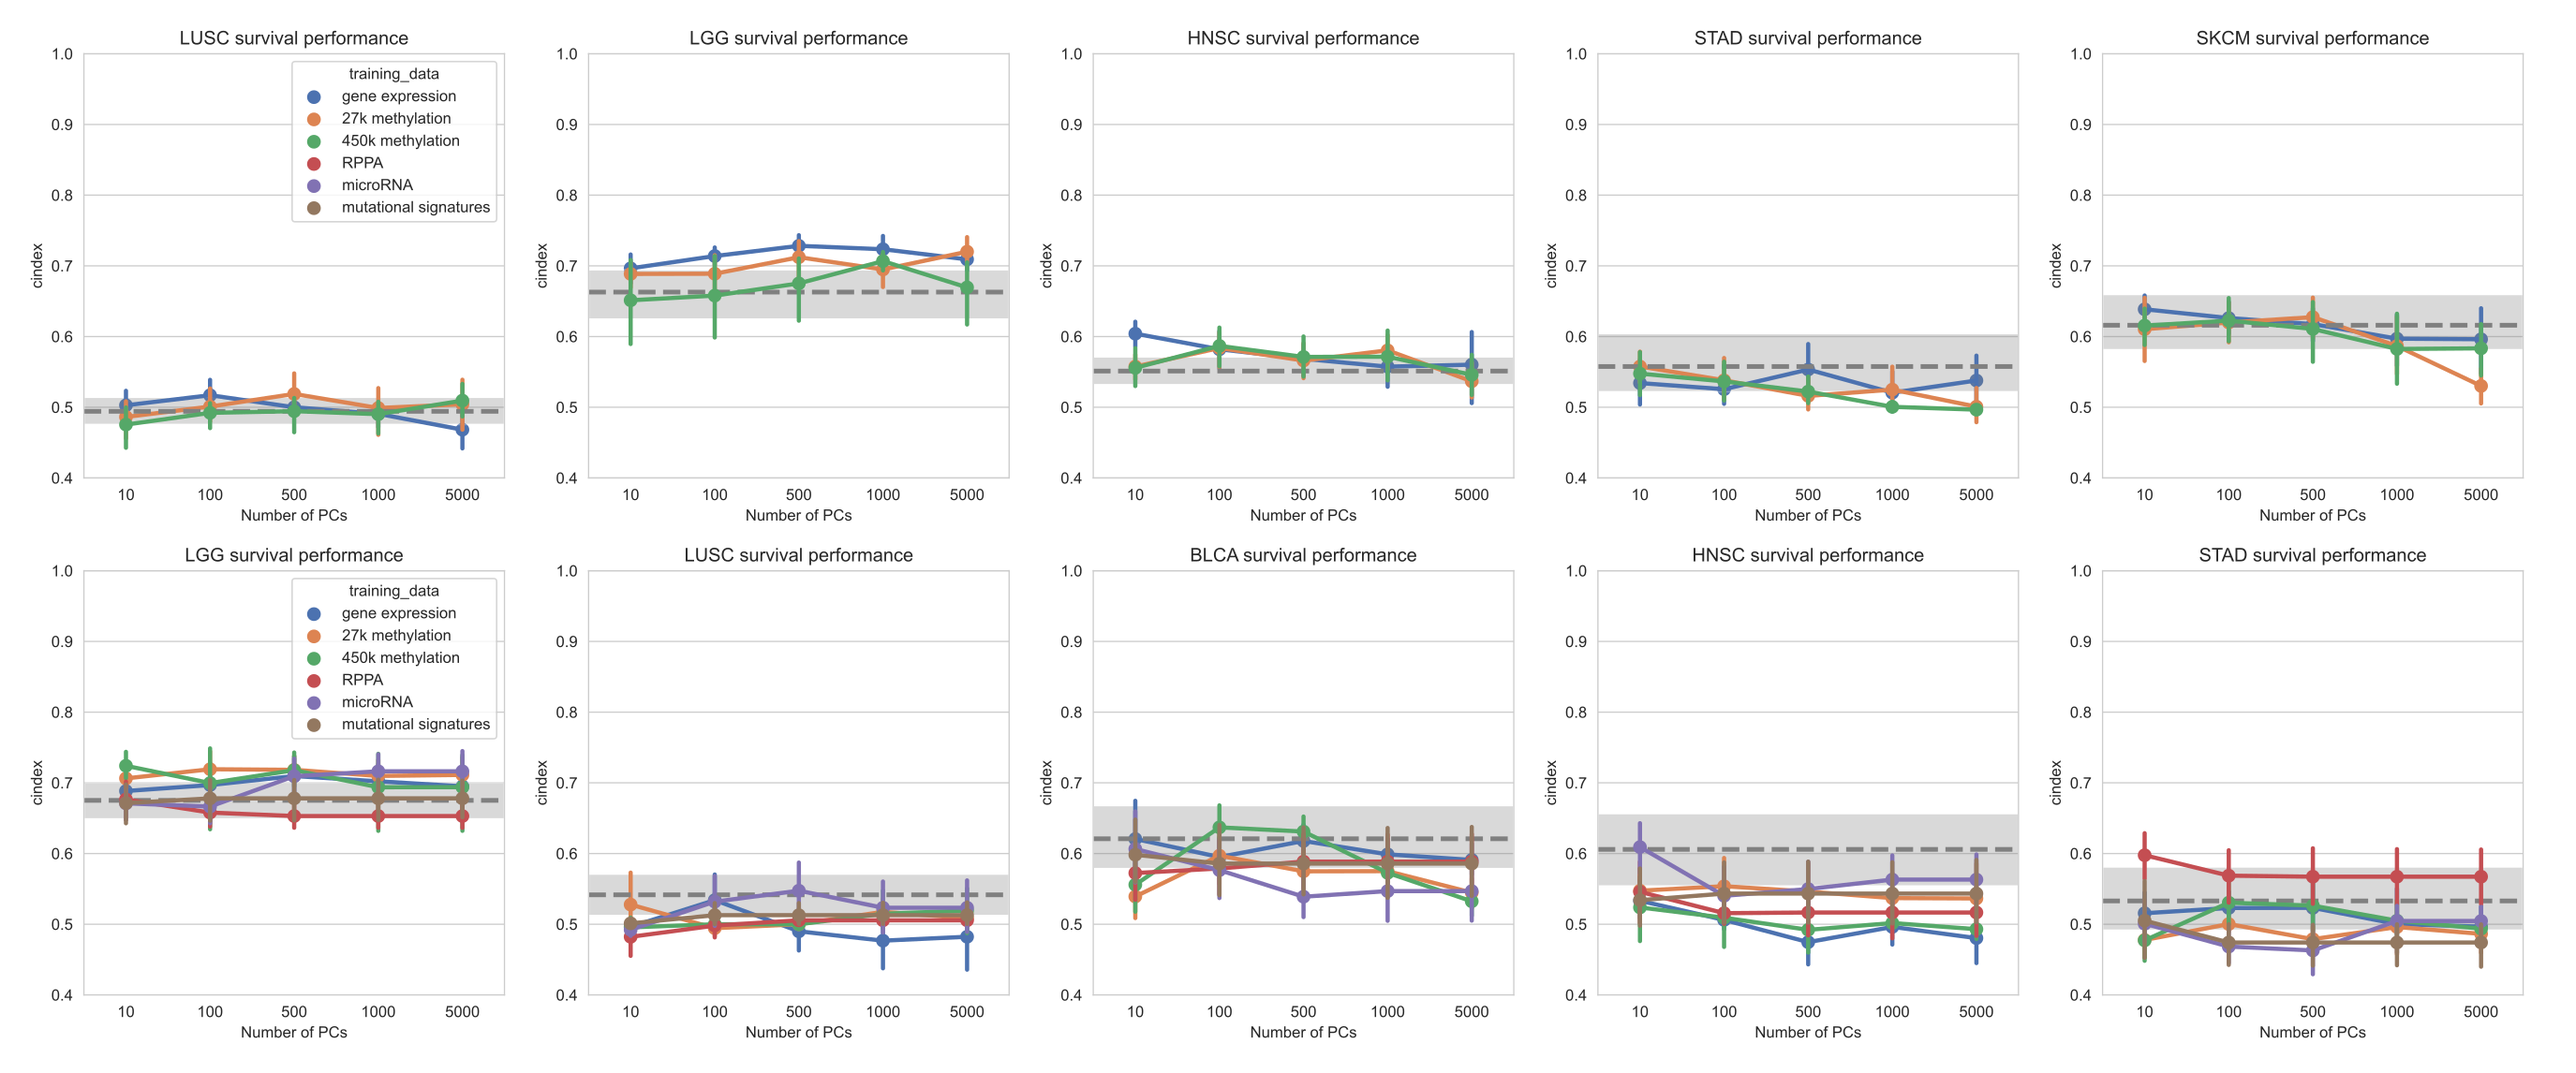
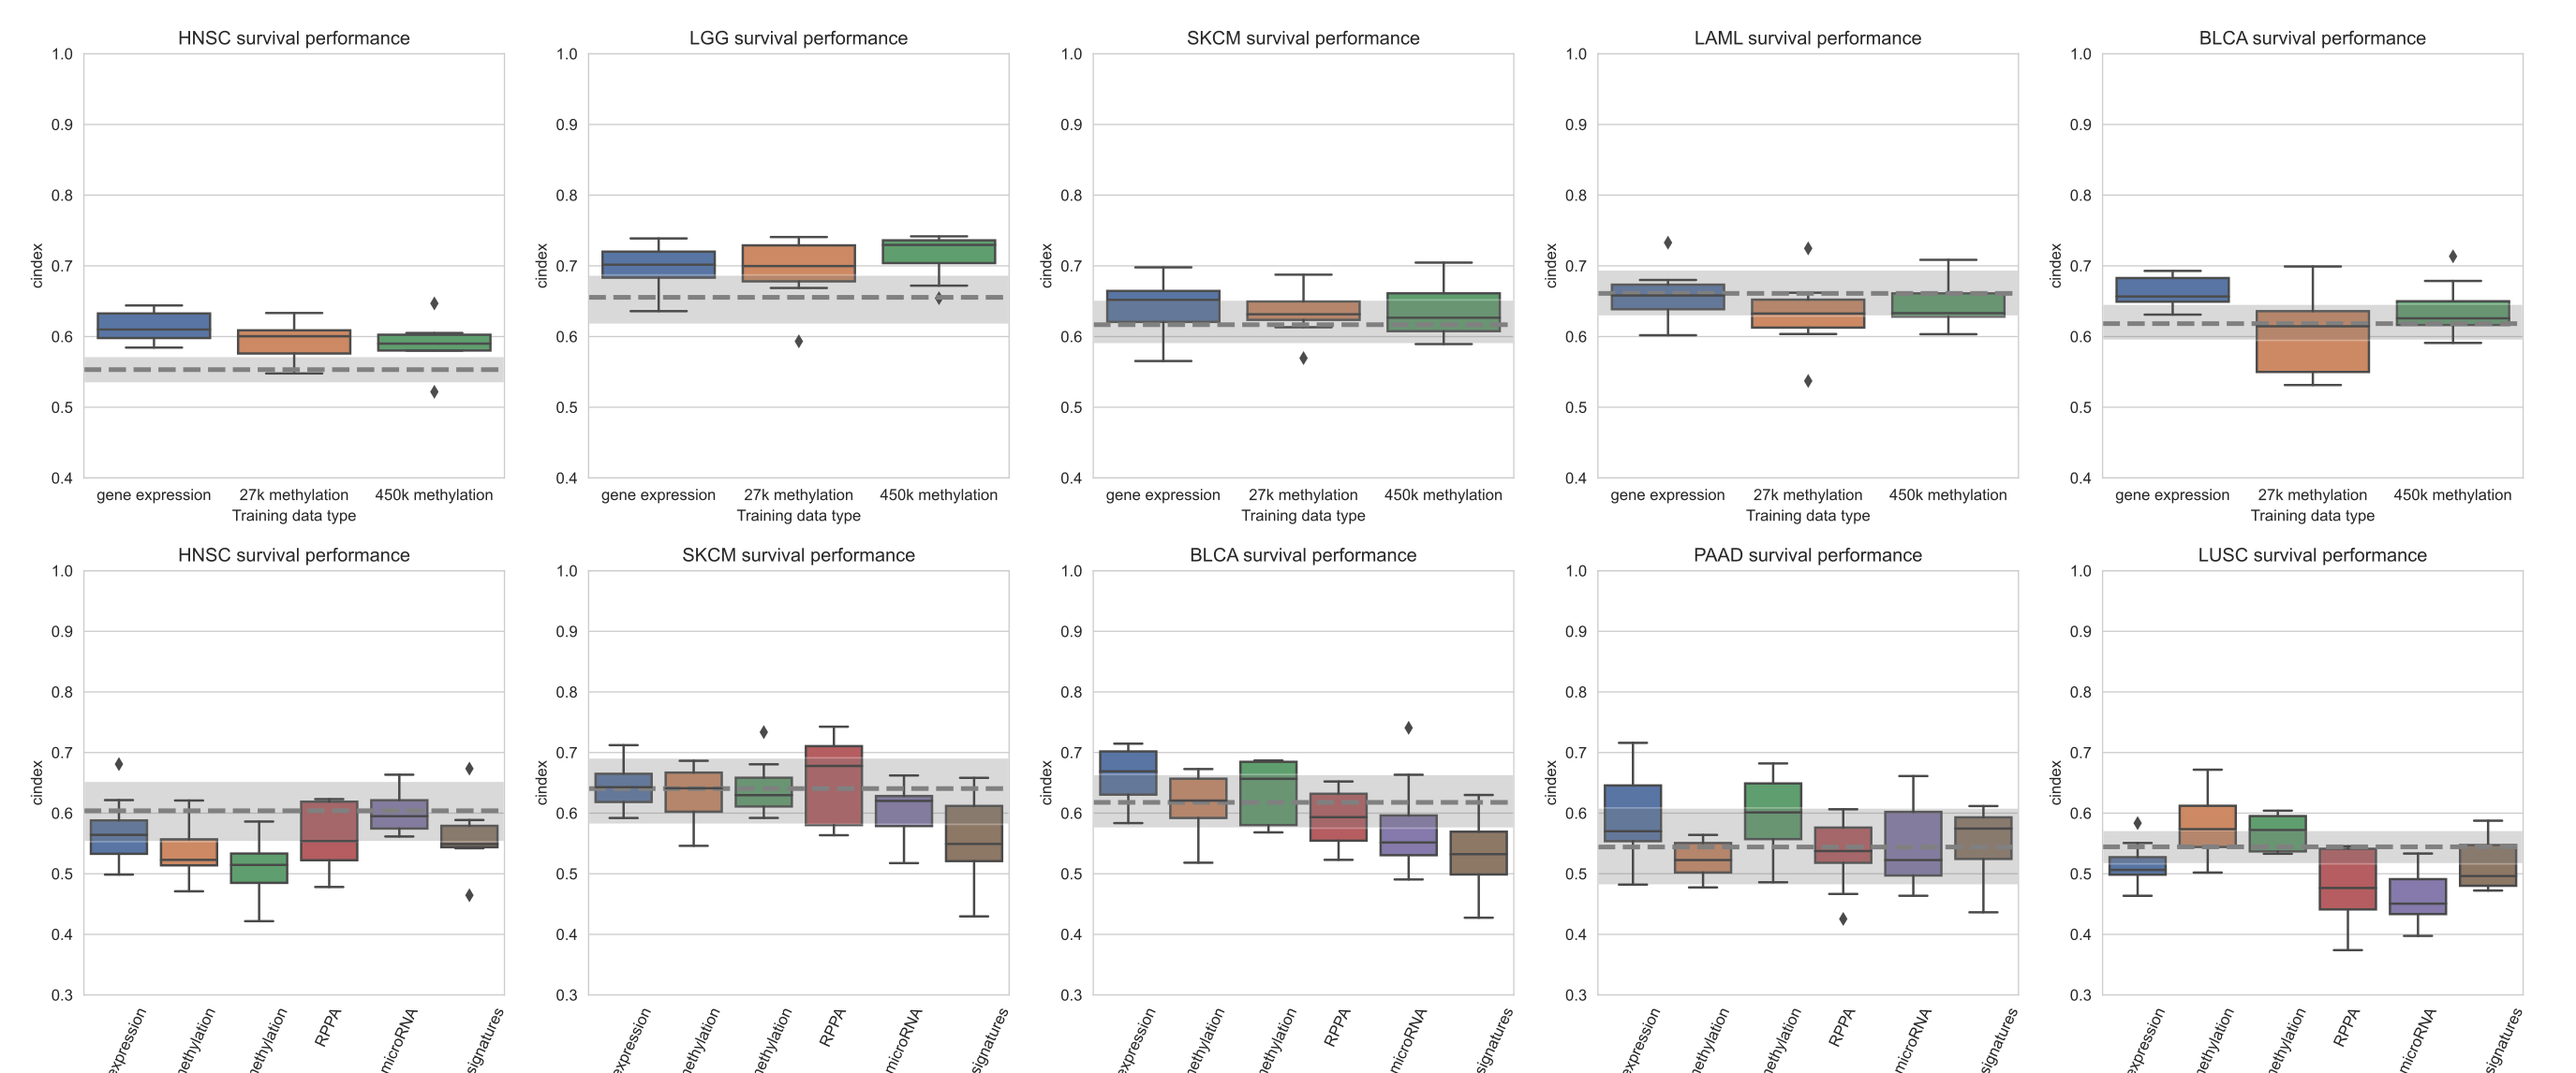
updated version of survival supp fig

diff --git a/content/07.supp_info.md b/content/07.supp_info.md
@@ -58,10 +58,11 @@ The _x_-axis shows the number of PCA components used as features, "raw" = no PCA
 ](images/supp_figure_11.png){#fig:me_compress_boxes width=90%}
 
 ![
-Survival prediction performance across increasing numbers of PCA components, for individual cancer types.
+Survival prediction performance for top 10 PCA components, for individual cancer types.
 The top row shows the five cancer types with the highest average coefficient of variation across data types, for expression, 27K methylation, and 450K methylation.
 The bottom row shows the five cancer types with the highest average coefficient of variation across data types, for the comparison using all 6 data types.
-Each point shows the mean concordance index, relative to baseline predictors with permuted labels, across 8 performance measurements (2 cross-validation replicates x 4 folds); error bars show bootstrapped 95% confidence intervals for the mean.
+Each box plot displays the c-index distribution across 8 performance measurements (2 cross-validation replicates x 4 folds).
+The grey dotted line shows mean performance for a model using only non-omics covariates (patient age at diagnosis and log~10~(sample mutation count)); grey shaded area indicated bootstrapped 95% confidence interval.
 ](images/supp_figure_12.png){#fig:survival_cancer_types width=90%}
 
 ![
